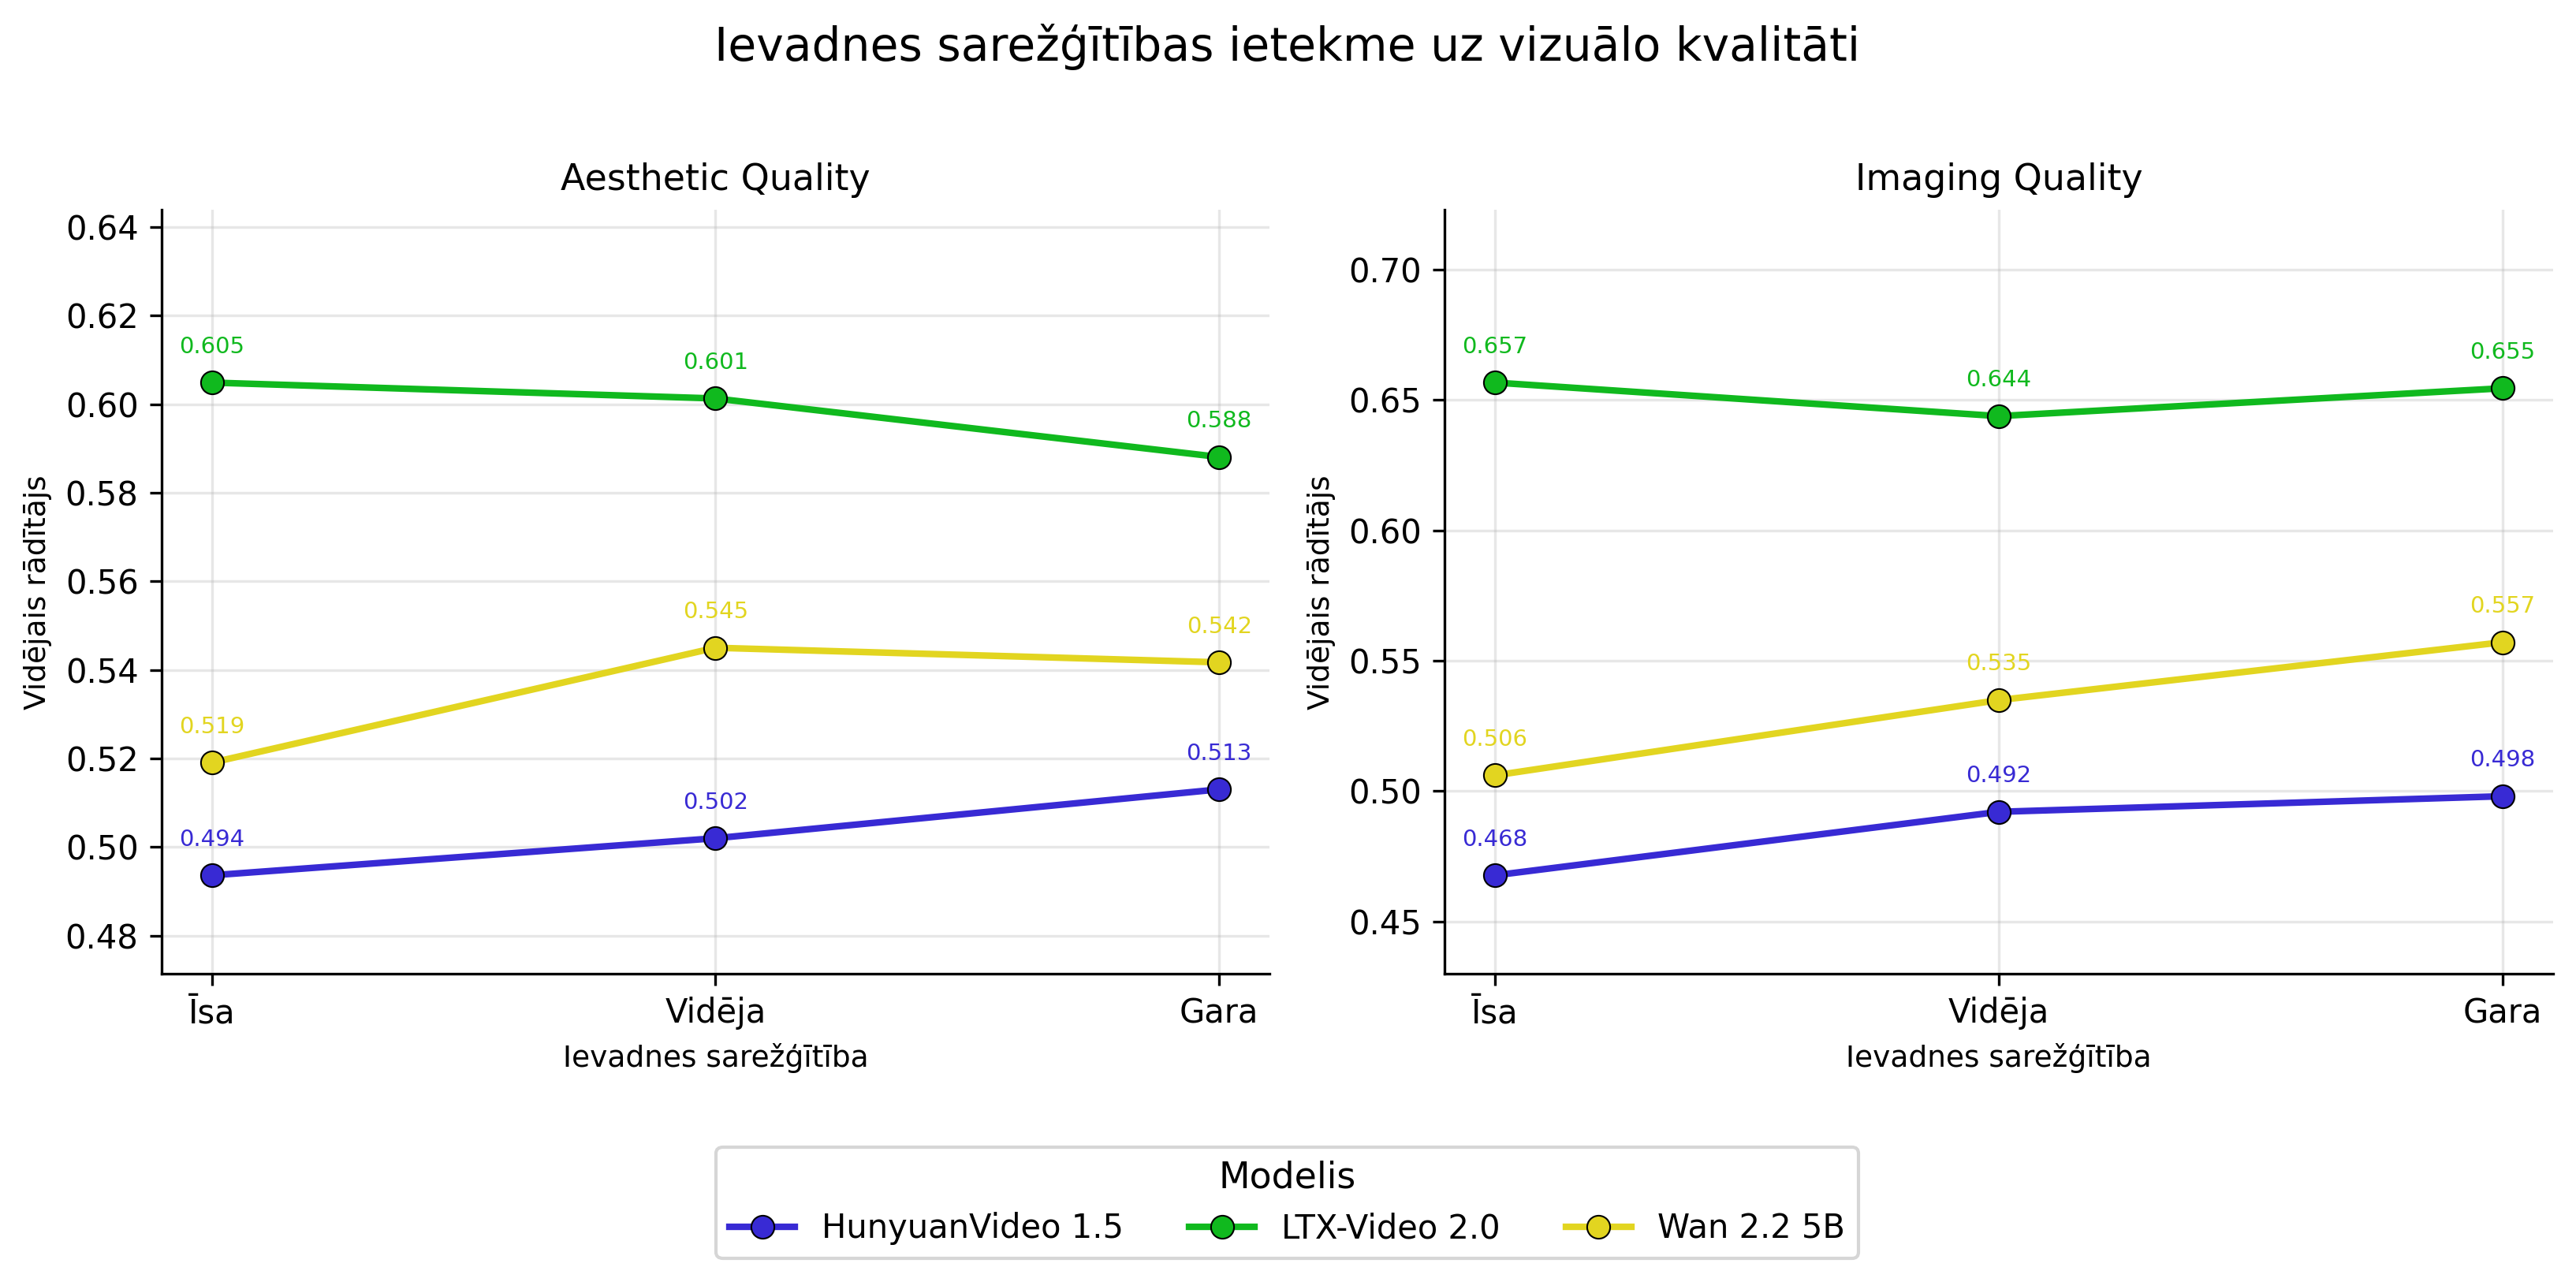
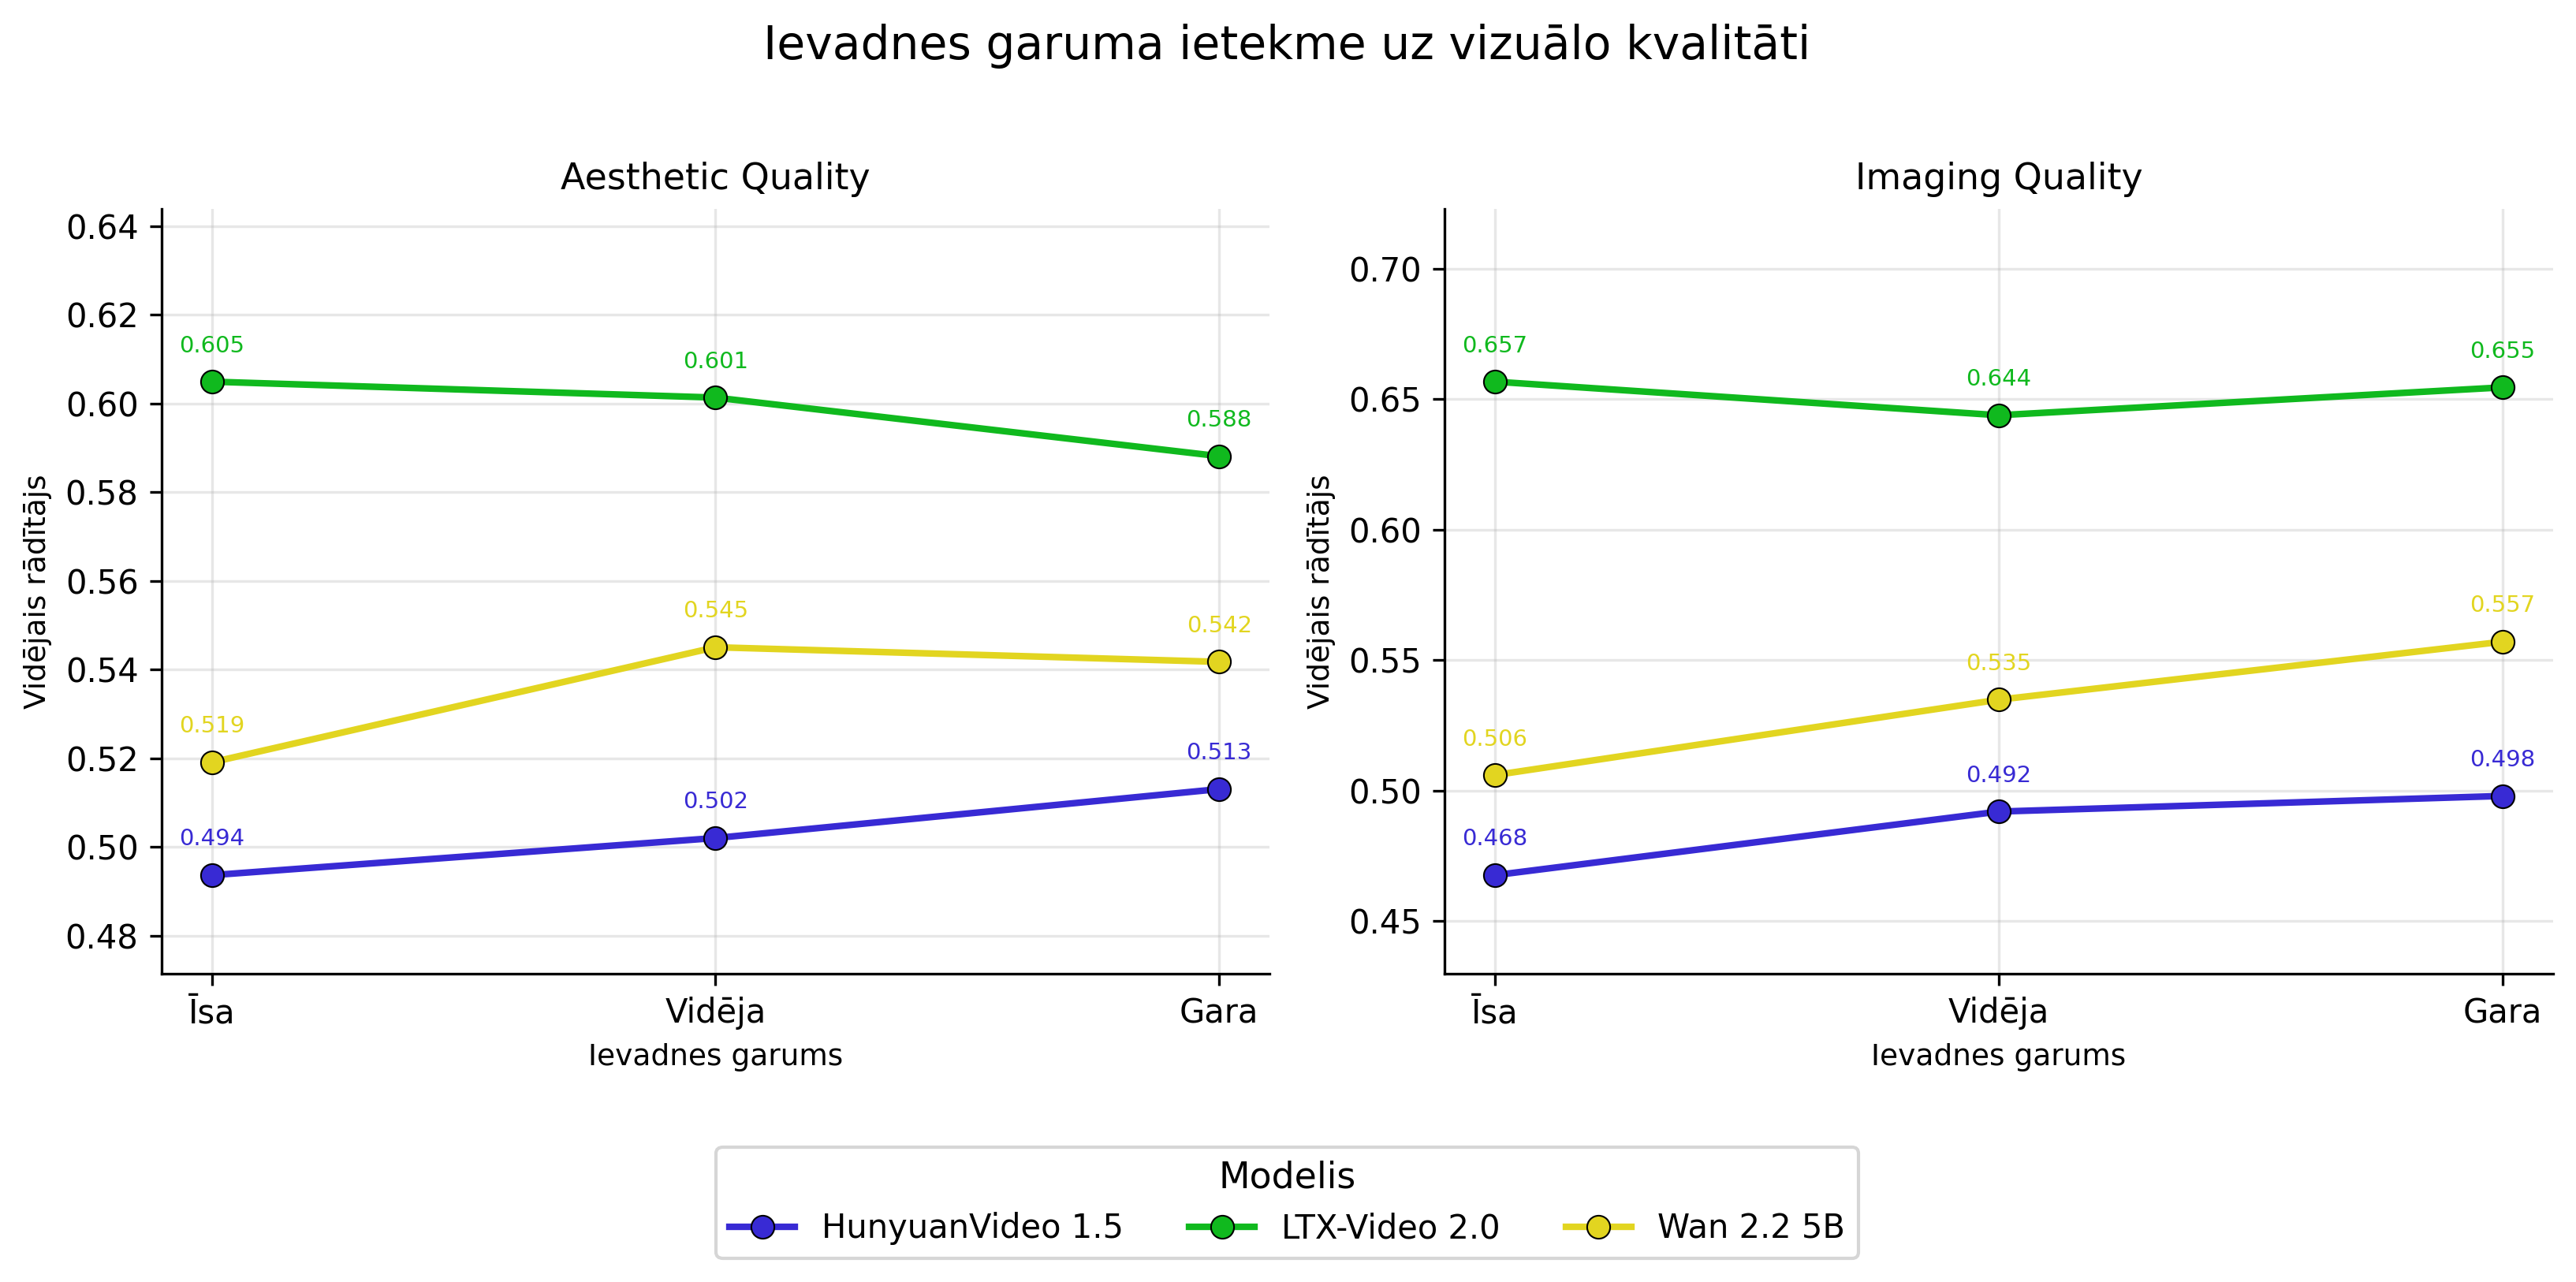
Refactor figure handling and update error messages for clarity

diff --git a/scripts/category_impact.py b/scripts/category_impact.py
@@ -13,12 +13,10 @@ from base import (
     TABLES_DIR,
     MODEL_DISPLAY,
     DIMENSION_DISPLAY,
-    MODEL_COLORS,
 )
 
 
 def prepare_category_impact_stats(df):
-    """Aprēķina vidējās vērtības katrai (modelis, kategorija) kombinācijai."""
     subset = df[df["model"].isin(EXPECTED_MODELS)].copy()
     if "imaging_quality" in subset.columns and subset["imaging_quality"].max() > 1.5:
         subset["imaging_quality"] = subset["imaging_quality"] / 100
@@ -35,89 +33,79 @@ def prepare_category_impact_stats(df):
     return means, models_sorted, categories_sorted
 
 
-def _plot_metric_group_by_category(
+def _plot_heatmap(
     means,
     models_sorted,
     categories_sorted,
     metrics,
     suptitle,
     filename,
-    nrows,
-    ncols,
-    figsize,
+    nrows=1,
+    ncols=None,
 ):
-    fig, axes = plt.subplots(nrows, ncols, figsize=figsize)
+    n_metrics = len(metrics)
+    if ncols is None:
+        ncols = n_metrics
 
-    if nrows * ncols == 1:
+    n_cats = len(categories_sorted)
+    cell_width = 1.2
+    cell_height = 0.9
+
+    fig_w = ncols * (n_cats * cell_width + 1.5)
+    fig_h = nrows * (len(models_sorted) * cell_height + 1.8)
+
+    fig, axes = plt.subplots(nrows, ncols, figsize=(fig_w, fig_h))
+
+    if n_metrics == 1:
         axes = [axes]
     else:
-        axes = axes.flatten()  # type: ignore
+        axes = np.array(axes).flatten()
 
-    handles_for_legend = []
-    labels_for_legend = []
-
-    n_models = len(models_sorted)
-    bar_width = 0.8 / n_models
-    x = np.arange(len(categories_sorted))
     x_labels = [CATEGORY_DISPLAY.get(c, c) for c in categories_sorted]
+    y_labels = [MODEL_DISPLAY.get(m, m) for m in models_sorted]
 
     for i, metric in enumerate(metrics):
         ax = axes[i]
 
-        for j, model in enumerate(models_sorted):
-            color = MODEL_COLORS.get(model, "gray")
-            label = MODEL_DISPLAY.get(model, model)
+        data = np.array(
+            [
+                [
+                    means[(means["model"] == m) & (means["category"] == c)][
+                        metric
+                    ].values[0]
+                    for c in categories_sorted
+                ]
+                for m in models_sorted
+            ]
+        )
 
-            model_data = means[means["model"] == model].set_index("category")
-            values = [model_data.loc[c, metric] for c in categories_sorted]
+        im = ax.imshow(data, aspect="auto", cmap="RdYlGn")
+        plt.colorbar(im, ax=ax, shrink=0.8)
 
-            offset = (j - (n_models - 1) / 2) * bar_width
-            bars = ax.bar(
-                x + offset,
-                values,
-                bar_width,
-                color=color,
-                label=label,
-                edgecolor="black",
-                linewidth=0.5,
-            )
+        ax.set_xticks(range(len(categories_sorted)))
+        ax.set_xticklabels(x_labels, rotation=35, ha="right", fontsize=8)
+        ax.set_yticks(range(len(models_sorted)))
+        ax.set_yticklabels(y_labels, fontsize=9)
+        ax.set_title(DIMENSION_DISPLAY.get(metric, metric), fontsize=11)
 
-            if i == 0:
-                handles_for_legend.append(bars[0])
-                labels_for_legend.append(label)
-
-        ax.set_title(DIMENSION_DISPLAY.get(metric, metric), fontsize=11)  # type: ignore
-        ax.set_ylabel("Vidējais rādītājs", fontsize=9)
-        ax.set_xticks(x)
-        ax.set_xticklabels(x_labels, rotation=30, ha="right", fontsize=8)  # type: ignore
-        ax.grid(True, alpha=0.3, axis="y")
-        ax.spines[["top", "right"]].set_visible(False)
-
-        values_all = means[metric].values
-        vmin, vmax = values_all.min(), values_all.max()
-        spread = vmax - vmin
-        if spread < 1e-6:
-            pad = max(vmax * 0.05, 0.01)
-            ax.set_ylim(vmax - pad, vmax + pad)
-        else:
-            pad_low = spread * 0.15
-            pad_high = spread * 0.15
-            ax.set_ylim(max(0.0, vmin - pad_low), min(1.0, vmax + pad_high))
-
-    for j in range(len(metrics), len(axes)):
-        axes[j].axis("off")
-
-    fig.legend(
-        handles_for_legend,
-        labels_for_legend,
-        loc="upper center",
-        bbox_to_anchor=(0.5, -0.02),
-        ncol=len(models_sorted),
-        fontsize=10,
-        title="Modelis",
-        title_fontsize=11,
-        frameon=True,
-    )
+        for row in range(len(models_sorted)):
+            for col in range(len(categories_sorted)):
+                val = data[row, col]
+                text_color = (
+                    "black"
+                    if 0.3 < (val - data.min()) / (data.max() - data.min() + 1e-9) < 0.7
+                    else "white"
+                )
+                ax.text(
+                    col,
+                    row,
+                    f"{val:.3f}",
+                    ha="center",
+                    va="center",
+                    fontsize=7.5,
+                    color=text_color,
+                    fontweight="bold",
+                )
 
     plt.suptitle(suptitle, fontsize=14, y=1.02)
     plt.tight_layout()
@@ -125,65 +113,47 @@ def _plot_metric_group_by_category(
     FIGURES_DIR.mkdir(parents=True, exist_ok=True)
     plt.savefig(FIGURES_DIR / filename, dpi=300, bbox_inches="tight")
     plt.close()
-
-
-def plot_category_temporal_consistency(means, models_sorted, categories_sorted):
-    _plot_metric_group_by_category(
-        means=means,
-        models_sorted=models_sorted,
-        categories_sorted=categories_sorted,
-        metrics=TEMPORAL_DIMENSIONS,
-        suptitle="Kategoriju ietekme uz temporālo konsekvenci",
-        filename="category_temporal_consistency.png",
-        nrows=2,
-        ncols=2,
-        figsize=(14, 9),
-    )
-
-
-def plot_category_visual_quality(means, models_sorted, categories_sorted):
-    _plot_metric_group_by_category(
-        means=means,
-        models_sorted=models_sorted,
-        categories_sorted=categories_sorted,
-        metrics=VISUAL_QUALITY_DIMENSIONS,
-        suptitle="Kategoriju ietekme uz vizuālo kvalitāti",
-        filename="category_visual_quality.png",
-        nrows=1,
-        ncols=2,
-        figsize=(14, 5),
-    )
-
-
-def plot_category_semantic_alignment(means, models_sorted, categories_sorted):
-    _plot_metric_group_by_category(
-        means=means,
-        models_sorted=models_sorted,
-        categories_sorted=categories_sorted,
-        metrics=SEMANTIC_DIMENSIONS,
-        suptitle="Kategoriju ietekme uz semantisko atbilstību",
-        filename="category_semantic_alignment.png",
-        nrows=1,
-        ncols=1,
-        figsize=(9, 5),
-    )
+    print(f"Saved: {filename}")
 
 
 def main():
     setup_plot_style()
-
     df = build_combined_evaluation_results()
 
     if df is None or df.empty:
-        print("Error: No data available to plot.")
+        print("Error: No data available.")
         return
 
     means, models_sorted, categories_sorted = prepare_category_impact_stats(df)
-    plot_category_temporal_consistency(means, models_sorted, categories_sorted)
-    plot_category_visual_quality(means, models_sorted, categories_sorted)
-    plot_category_semantic_alignment(means, models_sorted, categories_sorted)
 
-    print("Category impact plots generated successfully in the figures directory.")
+    _plot_heatmap(
+        means,
+        models_sorted,
+        categories_sorted,
+        metrics=TEMPORAL_DIMENSIONS,
+        suptitle="Kategoriju ietekme uz temporālo konsekvenci",
+        filename="category_temporal_consistency_heatmap.png",
+        nrows=2,
+        ncols=2,
+    )
+
+    _plot_heatmap(
+        means,
+        models_sorted,
+        categories_sorted,
+        metrics=VISUAL_QUALITY_DIMENSIONS,
+        suptitle="Kategoriju ietekme uz vizuālo kvalitāti",
+        filename="category_visual_quality_heatmap.png",
+    )
+
+    _plot_heatmap(
+        means,
+        models_sorted,
+        categories_sorted,
+        metrics=SEMANTIC_DIMENSIONS,
+        suptitle="Kategoriju ietekme uz semantisko atbilstību",
+        filename="category_semantic_alignment_heatmap.png",
+    )
 
 
 if __name__ == "__main__":

diff --git a/scripts/prompt_variation_impact.py b/scripts/prompt_variation_impact.py
@@ -96,7 +96,7 @@ def _plot_metric_group_by_variation(
                 labels_for_legend.append(label)
 
         ax.set_title(DIMENSION_DISPLAY.get(metric, metric), fontsize=11)  # type: ignore
-        ax.set_xlabel("Ievadnes sarežģītība", fontsize=9)
+        ax.set_xlabel("Ievadnes garums", fontsize=9)
         ax.set_ylabel("Vidējais rādītājs", fontsize=9)
         ax.grid(True, alpha=0.3)
         ax.spines[["top", "right"]].set_visible(False)
@@ -140,7 +140,7 @@ def plot_variation_temporal_consistency(means, models_sorted):
         means=means,
         models_sorted=models_sorted,
         metrics=TEMPORAL_DIMENSIONS,
-        suptitle="Ievadnes sarežģītības ietekme uz temporālo konsekvenci",
+        suptitle="Ievadnes garuma ietekme uz temporālo konsekvenci",
         filename="variation_temporal_consistency.png",
         nrows=2,
         ncols=2,
@@ -153,7 +153,7 @@ def plot_variation_visual_quality(means, models_sorted):
         means=means,
         models_sorted=models_sorted,
         metrics=VISUAL_QUALITY_DIMENSIONS,
-        suptitle="Ievadnes sarežģītības ietekme uz vizuālo kvalitāti",
+        suptitle="Ievadnes garuma ietekme uz vizuālo kvalitāti",
         filename="variation_visual_quality.png",
         nrows=1,
         ncols=2,
@@ -166,7 +166,7 @@ def plot_variation_semantic_alignment(means, models_sorted):
         means=means,
         models_sorted=models_sorted,
         metrics=SEMANTIC_DIMENSIONS,
-        suptitle="Ievadnes sarežģītības ietekme uz semantisko atbilstību",
+        suptitle="Ievadnes garuma ietekme uz semantisko atbilstību",
         filename="variation_semantic_alignment.png",
         nrows=1,
         ncols=1,

diff --git a/scripts/base.py b/scripts/base.py
@@ -250,7 +250,7 @@ def load_and_prepare_data():
     df = build_combined_evaluation_results()
 
     if df is None or df.empty:
-        raise ValueError("Nav datu, ko apstrādāt")
+        raise ValueError("No data to work with")
 
     df = df[df["model"].isin(EXPECTED_MODELS)].copy()
 